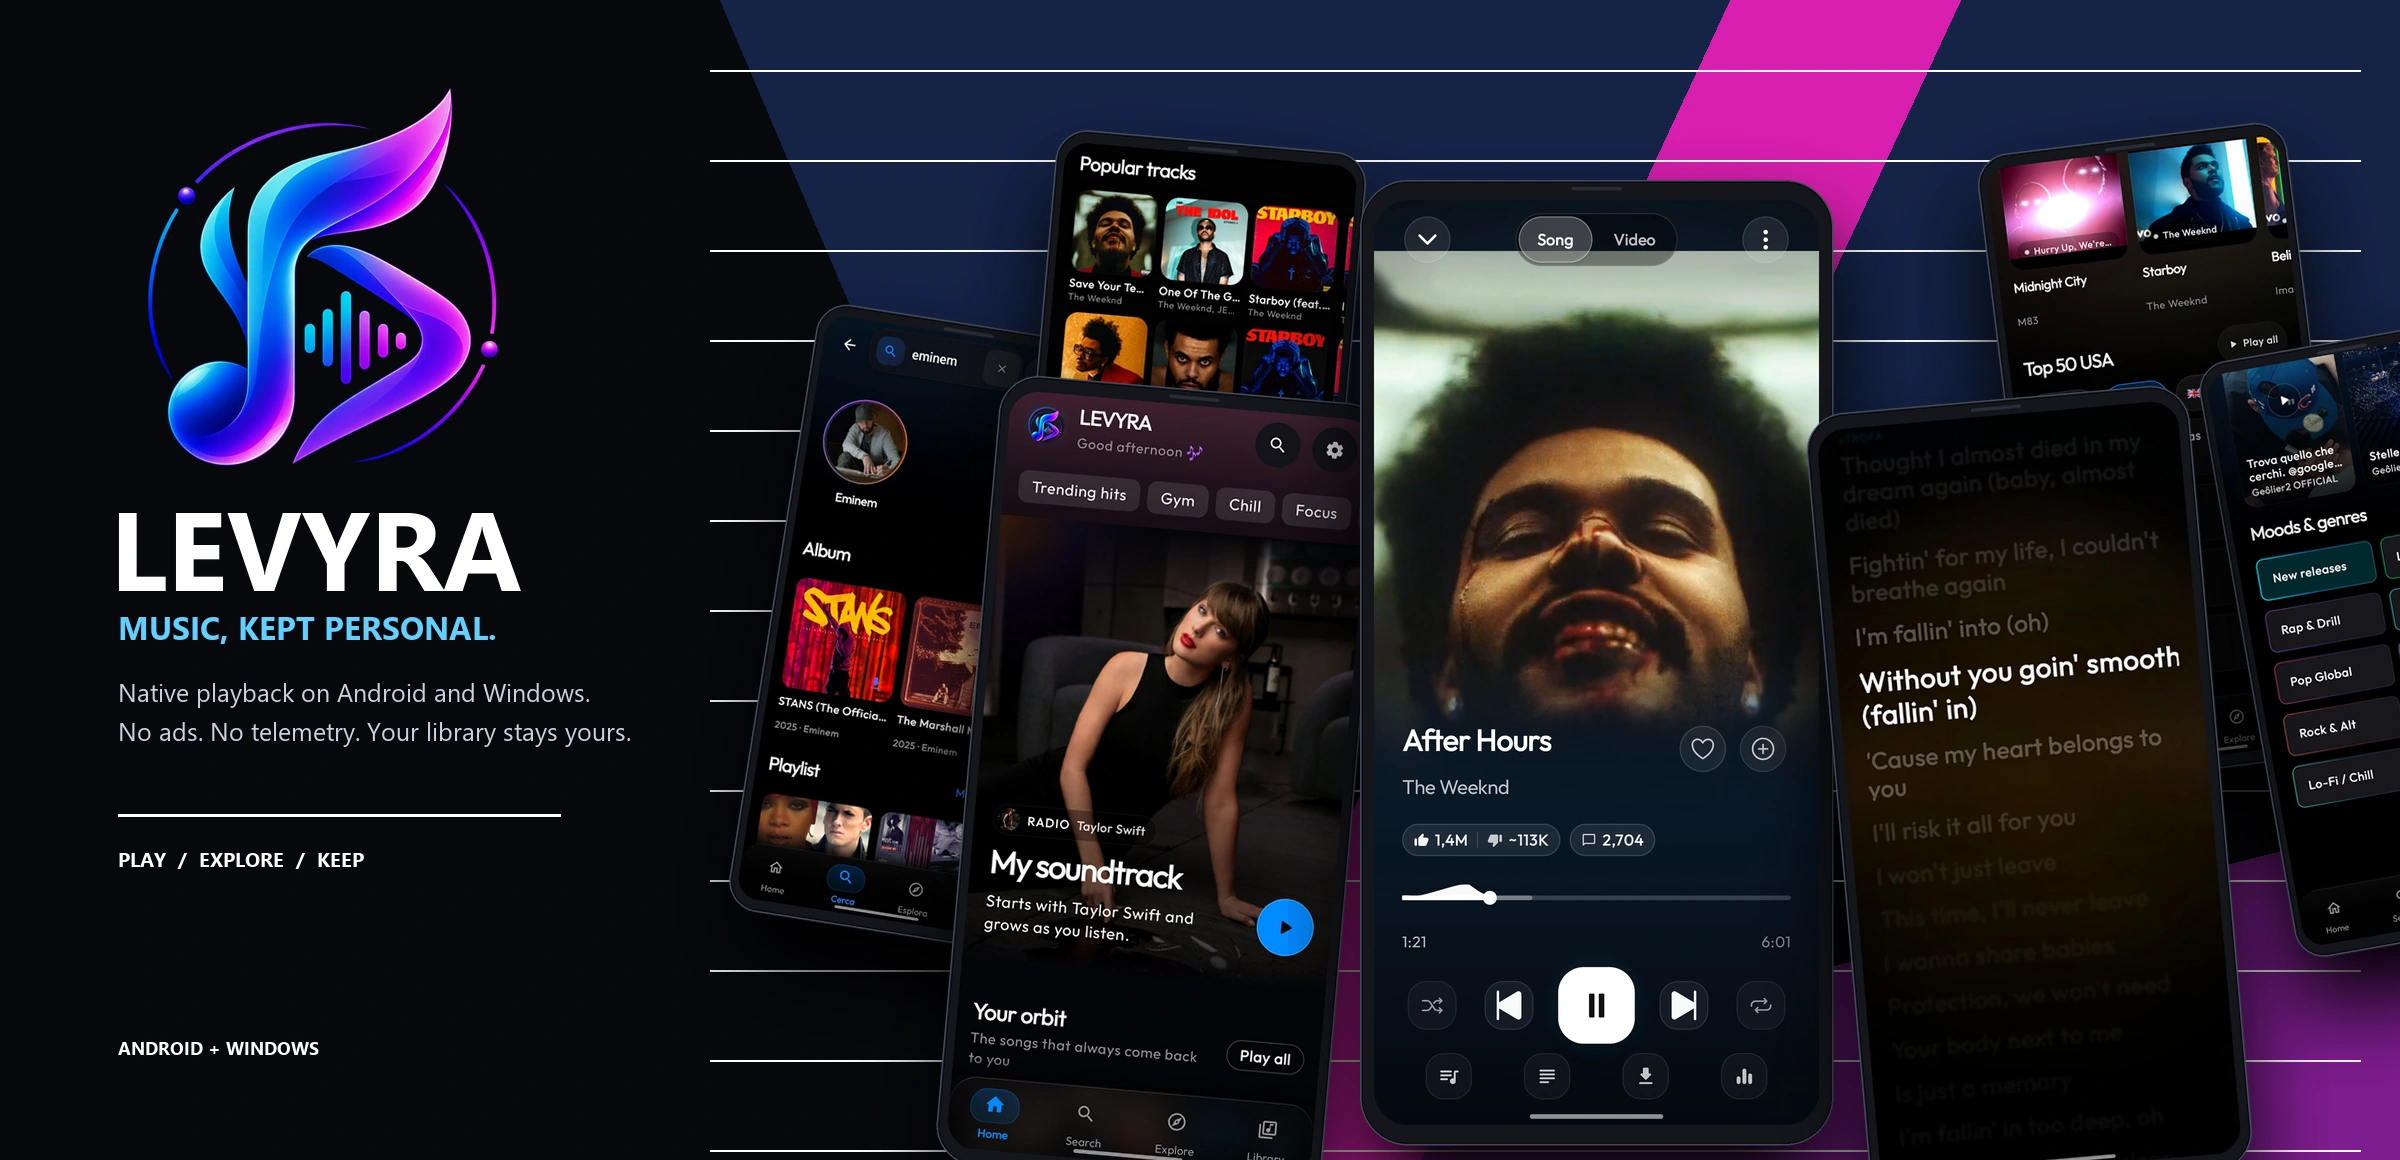
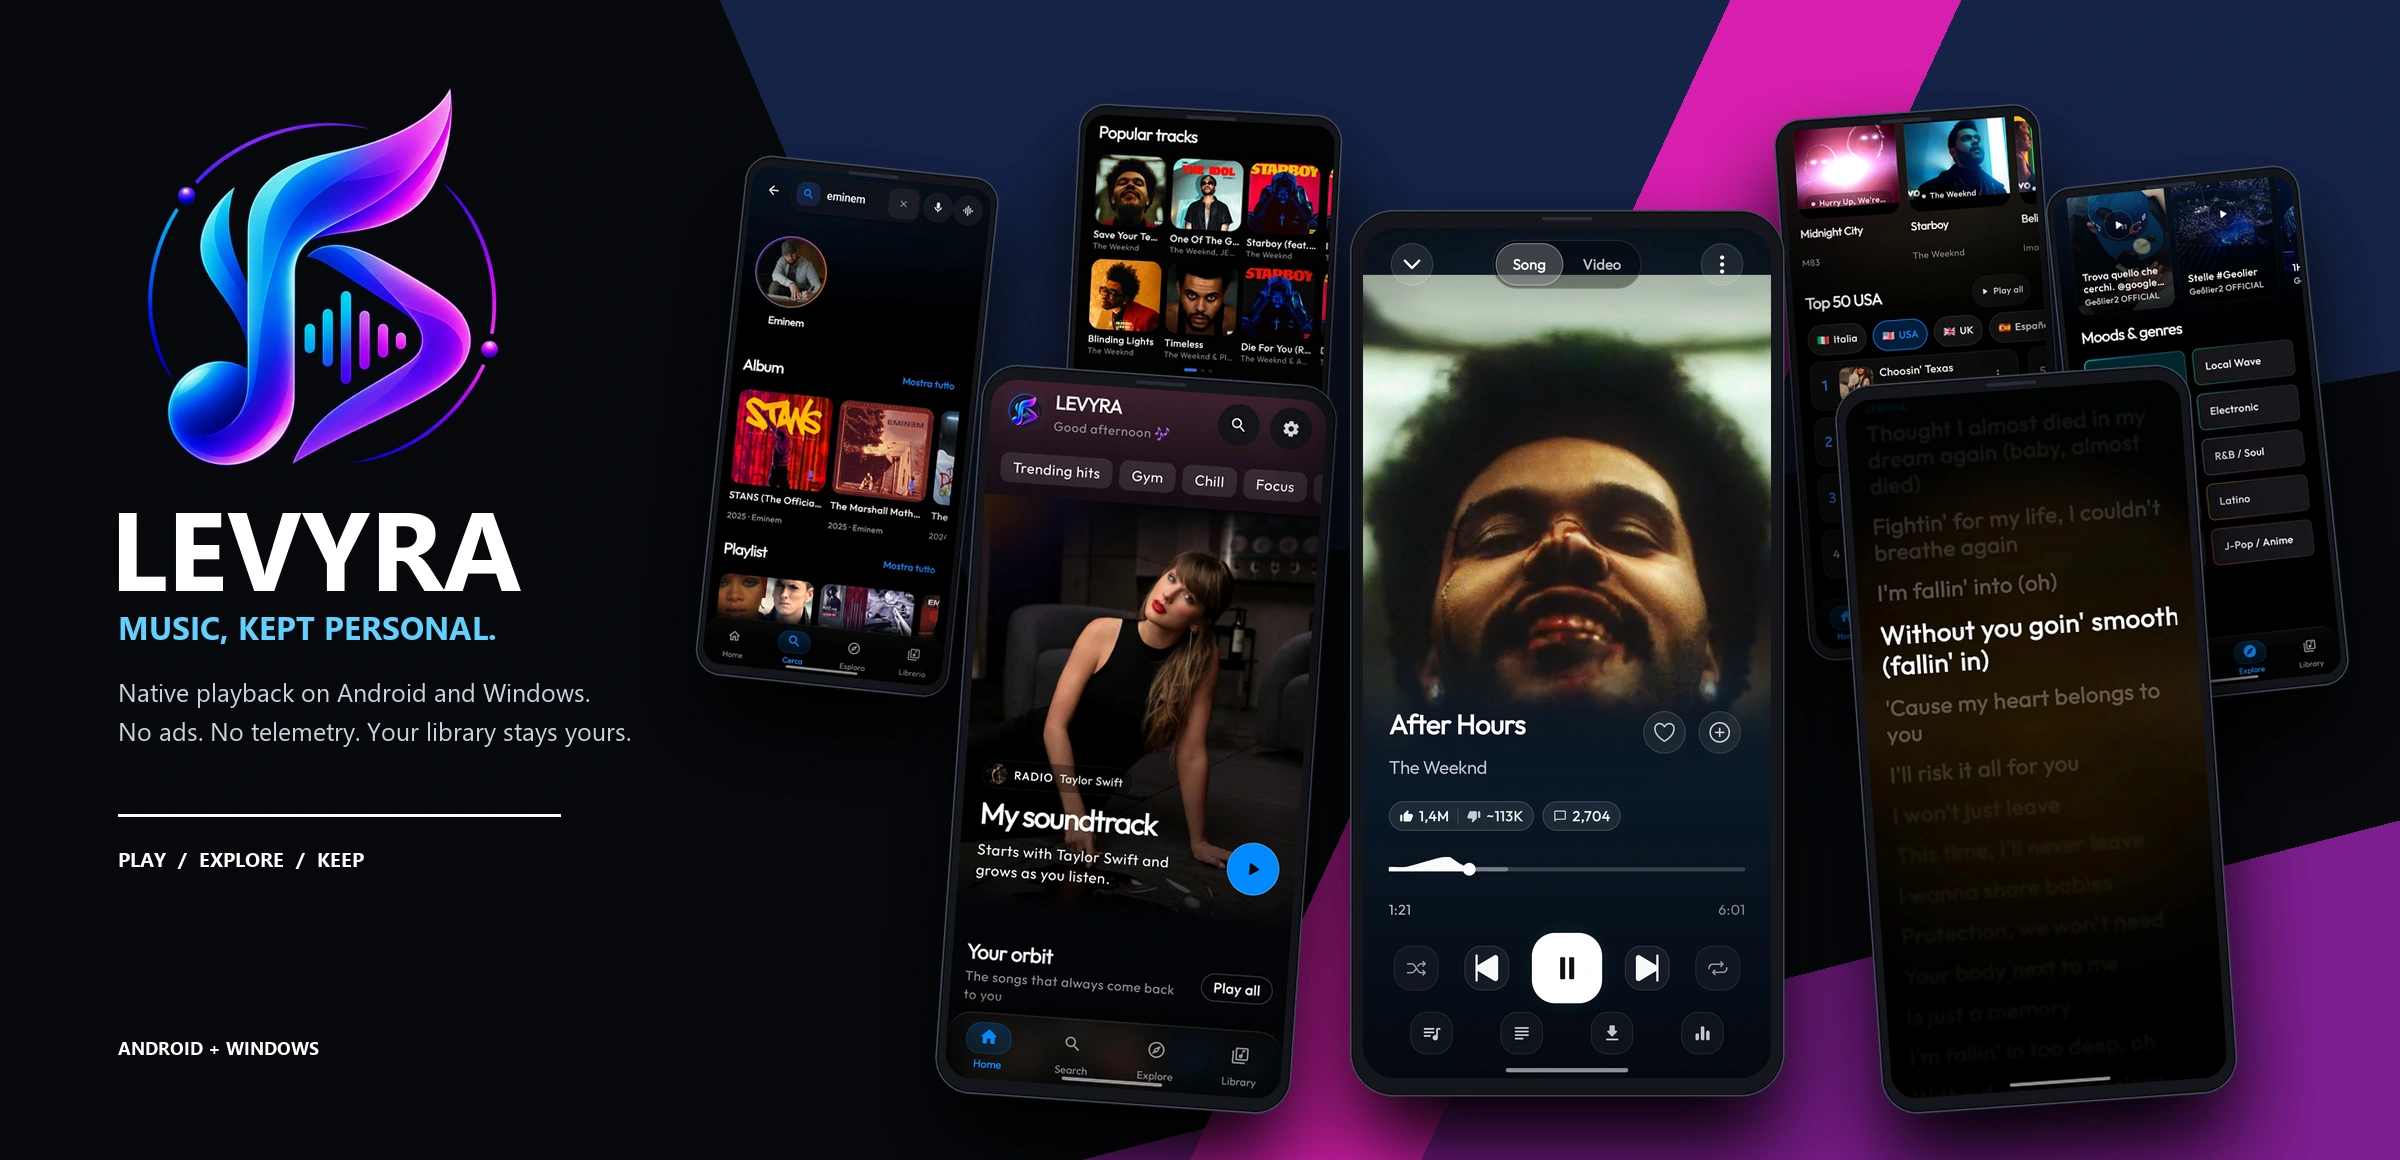
docs: refine showcase hero composition

Changed region(s): [[0.2812, 0.0931, 1.0, 1.0]]

diff --git a/scripts/generate_showcase_assets.py b/scripts/generate_showcase_assets.py
@@ -325,8 +325,6 @@ def generate_hero_panoramic_showcase():
         [(1730, 0), (1960, 0), (1420, 1160), (1190, 1160)],
         fill=(216, 31, 174, 80),
     )
-    for line_y in range(70, canvas_h, 90):
-        draw.line((710, line_y, 2360, line_y), fill=(255, 255, 255, 12), width=2)
     draw = ImageDraw.Draw(canvas)
 
     with Image.open(LOGO_PATH) as logo_source:
@@ -348,15 +346,15 @@ def generate_hero_panoramic_showcase():
     draw.text((118, 1035), "ANDROID + WINDOWS", font=get_font(18, bold=True), fill=(255, 255, 255, 130))
 
     back_row = [
-        ("search_artist", 590, 690, 265, -9),
-        ("artist_discography", 610, 970, 95, -5),
-        ("charts", 610, 1940, 85, 7),
-        ("genres", 580, 2160, 280, 10),
+        ("search_artist", 500, 660, 120, -6),
+        ("artist_discography", 520, 1020, 70, -3),
+        ("charts", 520, 1740, 70, 4),
+        ("genres", 500, 2010, 130, 6),
     ]
     front_row = [
-        ("home", 760, 900, 340, -5),
-        ("now_playing", 925, 1330, 150, 0),
-        ("lyrics", 755, 1770, 350, 5),
+        ("home", 700, 900, 330, -4),
+        ("now_playing", 850, 1320, 180, 0),
+        ("lyrics", 700, 1800, 330, 4),
     ]
     for key, height, x, y, angle in back_row + front_row:
         with Image.open(get_screen_path(SCREENS[key])) as source:

diff --git a/README.md b/README.md
@@ -140,14 +140,9 @@ Artwork, lyrics, queue position, listening history and recommendations still bel
 
 <a href="docs/assets/showcase/00_levyra_hero_showcase.webp"><img src="docs/assets/showcase/00_levyra_hero_showcase.webp" width="100%" alt="Levyra music player for Android and Windows" /></a>
 
-<br>
-
 <p align="center">
-  <strong>One app, plenty of ways into the music.</strong><br>
-  <sub>Start with radio or charts, open an artist, switch between song and video, then follow the lyrics. Your listening stats stay on your device.</sub>
+  <sub>Browse radio and charts, open an artist, switch to video or follow synced lyrics. Your listening stats stay on your device.</sub>
 </p>
-
-<br>
 
 <p align="center">
   <a href="docs/assets/showcase/cards/01_home.webp"><img src="docs/assets/showcase/cards/01_home.webp" width="200" alt="Levyra home and personalized radio" /></a>
